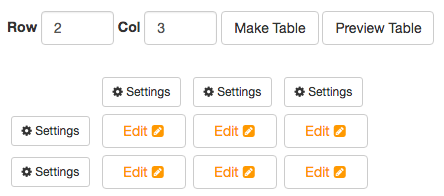
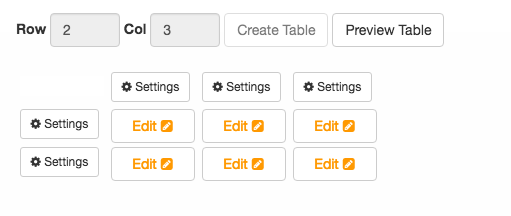
指摘に対応しマニュアルを改善

diff --git a/manual/MANUAL.md b/manual/MANUAL.md
@@ -7,27 +7,25 @@
 
 ### Summary
 
-This program provides an easy way to make a table by intuitive User Interface.  
+This intuitive User Interface makes it easy to create tables.
 
-### Make/Edit/Preview/Output table
+### Create/Edit/Preview/Output table
 
-In the following example, it makes 2 rows and 3 columns table.
+In the following example a table with 2 rows and 3 columns is created.
 
-#### (1) Make table schema. 
+#### (1) Create table schema. 
 
-You input 2 to Row area and input 3 to Col area.
+Enter '2' in the 'Row' and '3' in the 'Col' fields.
 
 <img src="screenshot-toolbar.png">
 
-You click "Make Table" button, then 2 rows and 3 columns table schema is made.
+Click the 'Create Table' button to continue to the table.
 
-<img src="screenshot-make-table.png">
+<img src="screenshot-create-table.png">
 
 #### (2) Input data to cell.
 
-You click "Edit" button, then Edit data dialog is shown.
-In the following example, You click first "Edit" button,  
-then You input "This is sample" to text area and click "Save Data" button.
+Use the 'Edit' buttons to change the content of the cells.
 
 <img src="screenshot-entry-dialog.png">
 
@@ -35,25 +33,24 @@ Cells to which the data has been entered changes to orange color.
 
 <img src="screenshot-first-filled.png">
 
-In the following example, All cell is filled with data.
+In the following example, All cells have data. 
 
 <img src="screenshot-all-filled.png">
 
 #### (3) Preview Table.
 
-You click "Preview Table" button.
+Click on 'Preview Table' to see the results.
 
 <img src="screenshot-2nd-preview.png">
 
-#### (4) Save data to database.
+#### (4) Save the table.
 
-Just click the "Save Data" button data has not yet been saved to the database .  
-When "Save" button that is blue button is clicked, Data will be saved to the database.
+Just click the 'Save Data' button data has not yet been saved to the database .  
+When 'Save' button that is blue button is clicked, Data will be saved to the database.
 
 #### (5) Edit data.
 
-In the following example, You edit second cell data.  
-You click second "Edit" button then edit dialog is shown.
+You can edit the data by using the 'Edit' buttons again.
 
 <img src="screenshot-edit-2nd.png">
 
@@ -61,11 +58,11 @@ In the following example, to change the text from "This is sample data2." to "Th
 
 <img src="screenshot-edit-2nd-edit.png">
 
-When You click "Preview Table" button, The changes are reflected.
+When You click 'Preview Table' button, The changes are reflected.
 
 <img src="screenshot-2nd-preview.png">
 
-You click "Save" button (blue button), then the changes will be saved to the database.
+You click 'Save' button (blue button), then the changes will be saved to the database.
 
 #### (6) Output table.
 
@@ -77,13 +74,13 @@ This program will output the table as shown below to the visitors.
 
 <img src="screenshot-output-small.png">
 
-If, for example, you use elemental theme, then it is shown below.
+If you are using the elemental theme, it would look like below.
 
 <img src="screenshot-output-big.png">
 
-### Modify schema(Context Menu)
+#### (7) Modify schema(Context Menu)
 
-You click "settings" button, then context menu is shown.
+The 'Settings' button will give you the following context menu.
 
 <img src="screenshot-context-menu.png">
 
@@ -130,14 +127,13 @@ Row入力域へ2、列入力域へ3を入力します。
 
 <img src="screenshot-toolbar.png">
 
-"Make Table"ボタンをクリックすると2行3列のテーブルが作成されます。
+"Create Table"ボタンをクリックすると2行3列のテーブルが作成されます。
 
-<img src="screenshot-make-table.png">
+<img src="screenshot-create-table.png">
 
 #### (2) データ入力
 
-各"Edit"ボタンをクリックするとデータ入力ダイアログが表示されます。  
-例として最初の"Edit"ボタンをクリックし"This is sample"と入力し"Save Data"ボタンをクリックします。
+セルの内容を編集するには'Edit'ボタンを使います。
 
 <img src="screenshot-entry-dialog.png">
 
@@ -151,31 +147,30 @@ Row入力域へ2、列入力域へ3を入力します。
 
 #### (3) テーブルプレビュー
 
-"Preview Table"ボタンをクリックします。
+'Preview Table'ボタンをクリックします。
 
 <img src="screenshot-2nd-preview.png">
 
 ### (4) データ保存
 
-"Save Data"をクリックしただけではデータはデータベースへ保存されません。  
-青色の"Save"ボタンをクリックするとデータがデータベースへ保存されます。
+'Save Data'をクリックしただけではデータはデータベースへ保存されません。  
+青色の'Save'ボタンをクリックするとデータがデータベースへ保存されます。
 
 ### (5) データ編集
 
-下記例で2番目のセルを編集します。
-2番目の"Edit"ボタンをクリックすると編集ダイアログが表示されます。
+データの編集は'Edit'ボタンを再度クリックします。
 
 <img src="screenshot-edit-2nd.png">
 
-下記例はテキストを"This is sample data2."から"This is edit data2."へ変更します。
+下記例はテキストを'This is sample data2.'から'This is edit data2.'へ変更します。
 
 <img src="screenshot-edit-2nd-edit.png">
 
-"Preview Table"ボタンをクリックすると、変更が反映されいます。
+'Preview Table'ボタンをクリックすると、変更が反映されいます。
 
 <img src="screenshot-2nd-preview.png">
 
-"Save"ボタン(青色)をクリックすると変更がデータベースへ保存されます。
+'Save'ボタン(青色)をクリックすると変更がデータベースへ保存されます。
 
 #### (6) テーブル表示.
 
@@ -191,9 +186,9 @@ Row入力域へ2、列入力域へ3を入力します。
 
 <img src="screenshot-output-big.png">
 
-### テーブル構成変更(メニュー)
+#### (7) テーブル構成変更(メニュー)
 
-行、列の先頭にある"Settings"ボタンをクリックするとメニューが表示されます。
+行、列の先頭にある'Settings'ボタンをクリックするとメニューが表示されます。
 
 <img src="screenshot-context-menu.png">
 
